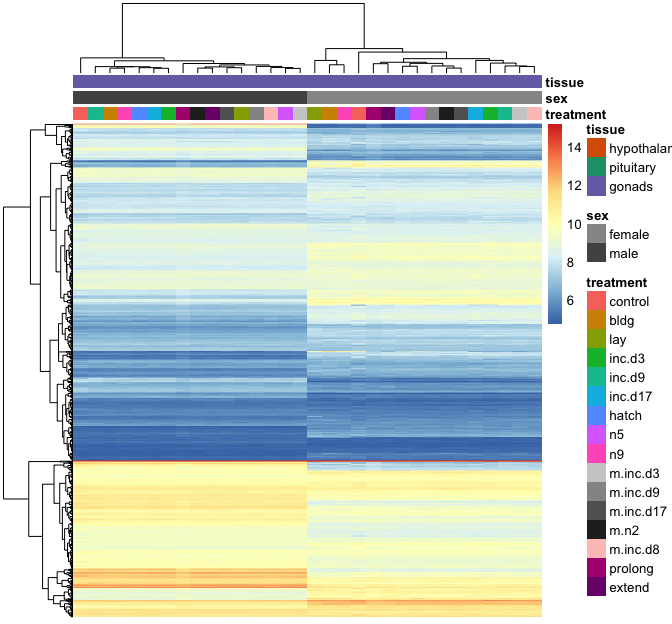
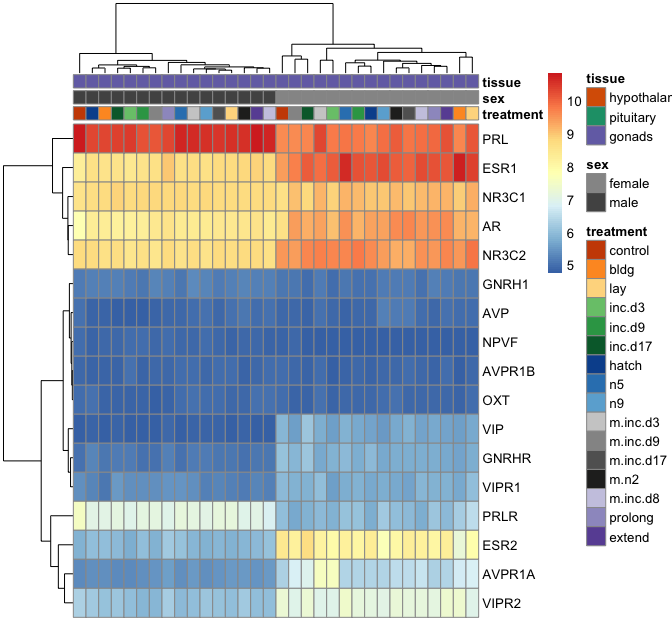
meh, heatmaps

diff --git a/analysis/17_pheatmap.md b/analysis/17_pheatmap.md
@@ -1,13 +1,17 @@
+    calisigenes <- c("PRL", "PRLR", 
+                     "VIP", "VIPR1", "VIPR2", 
+                     "OXT", "AVP", "AVPR1A", "AVPR1B", 
+                     "GNRH1","GNRHR", "NPVF",
+                     "NR3C1", "NR3C2",
+                     "ESR1", "ESR2", "AR")
+
     prepvsds <- function(pathtofile){
       
       df <- read.csv(pathtofile, row.names = 1)
       
-      df <- tail(df, 5000)
-      df <- head(df, 1000)
-      
       df <- as.data.frame(t(df))
       df$V1 <- row.names(df)
-
+      
       df$sex <- sapply(strsplit(as.character(df$V1),'\\_'), "[", 2)
       df$tissue <- sapply(strsplit(as.character(df$V1),'\\_'), "[", 3)
       df$treatment <- sapply(strsplit(as.character(df$V1),'\\_'), "[", 4)
@@ -37,12 +41,22 @@
       df <- sapply(unique(colnames(df)), function(i)
         rowMeans(df[,colnames(df) == i]))
       
+      df <- as.data.frame(df)
+      df$gene <- row.names(df)
+      df <- df %>% dplyr::filter(gene %in% calisigenes)
+      df <- as.data.frame(df)
+      row.names(df) <-  df$gene
+      df$gene <- NULL
+
+      
       return(df)
     }
 
     vsd.hyp <- prepvsds("../results/06_hypallvsd.csv")
     vsd.pit <- prepvsds("../results/06_pitallvsd.csv")
     vsd.gon <- prepvsds("../results/06_gonallvsd.csv")
+
+
 
     makelabels <- function(df){
       
@@ -60,16 +74,16 @@
     gonlabels <- makelabels(vsd.gon)
 
     pheatmap(vsd.hyp, show_colnames = F, annotation_col = hyplabels, 
-             annotation_colors = myannotationcolors, show_rownames = F)
+             annotation_colors = myannotationcolors, show_rownames = T)
 
 ![](../figures/pheatmap/pheatmap-1.png)
 
     pheatmap(vsd.pit, show_colnames = F, annotation_col = pitlabels, 
-             annotation_colors = myannotationcolors, show_rownames = F)
+             annotation_colors = myannotationcolors, show_rownames = T)
 
 ![](../figures/pheatmap/pheatmap-2.png)
 
     pheatmap(vsd.gon, show_colnames = F, annotation_col = gonlabels, 
-             annotation_colors = myannotationcolors, show_rownames = F)
+             annotation_colors = myannotationcolors, show_rownames = T)
 
 ![](../figures/pheatmap/pheatmap-3.png)
